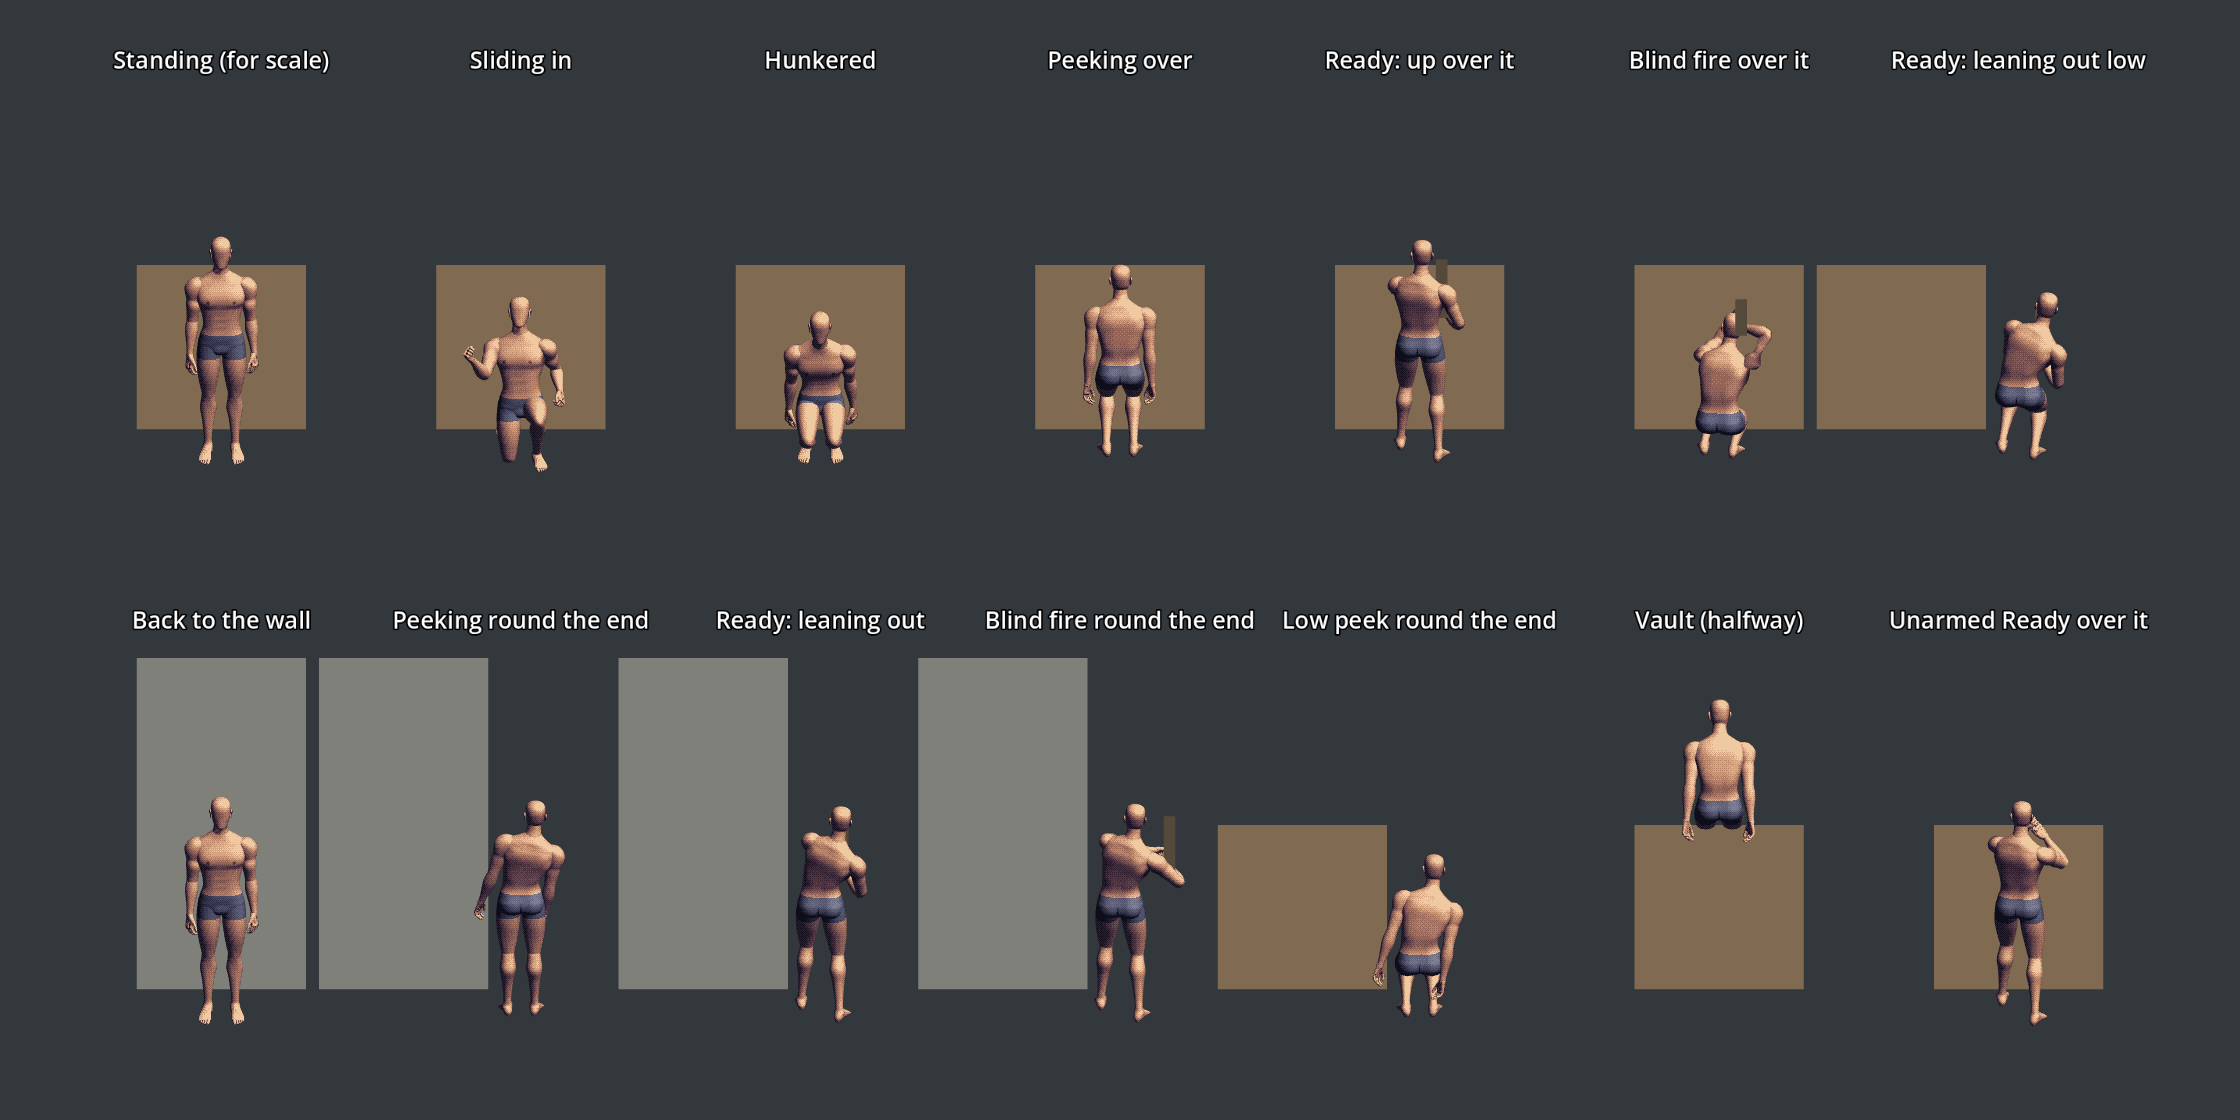
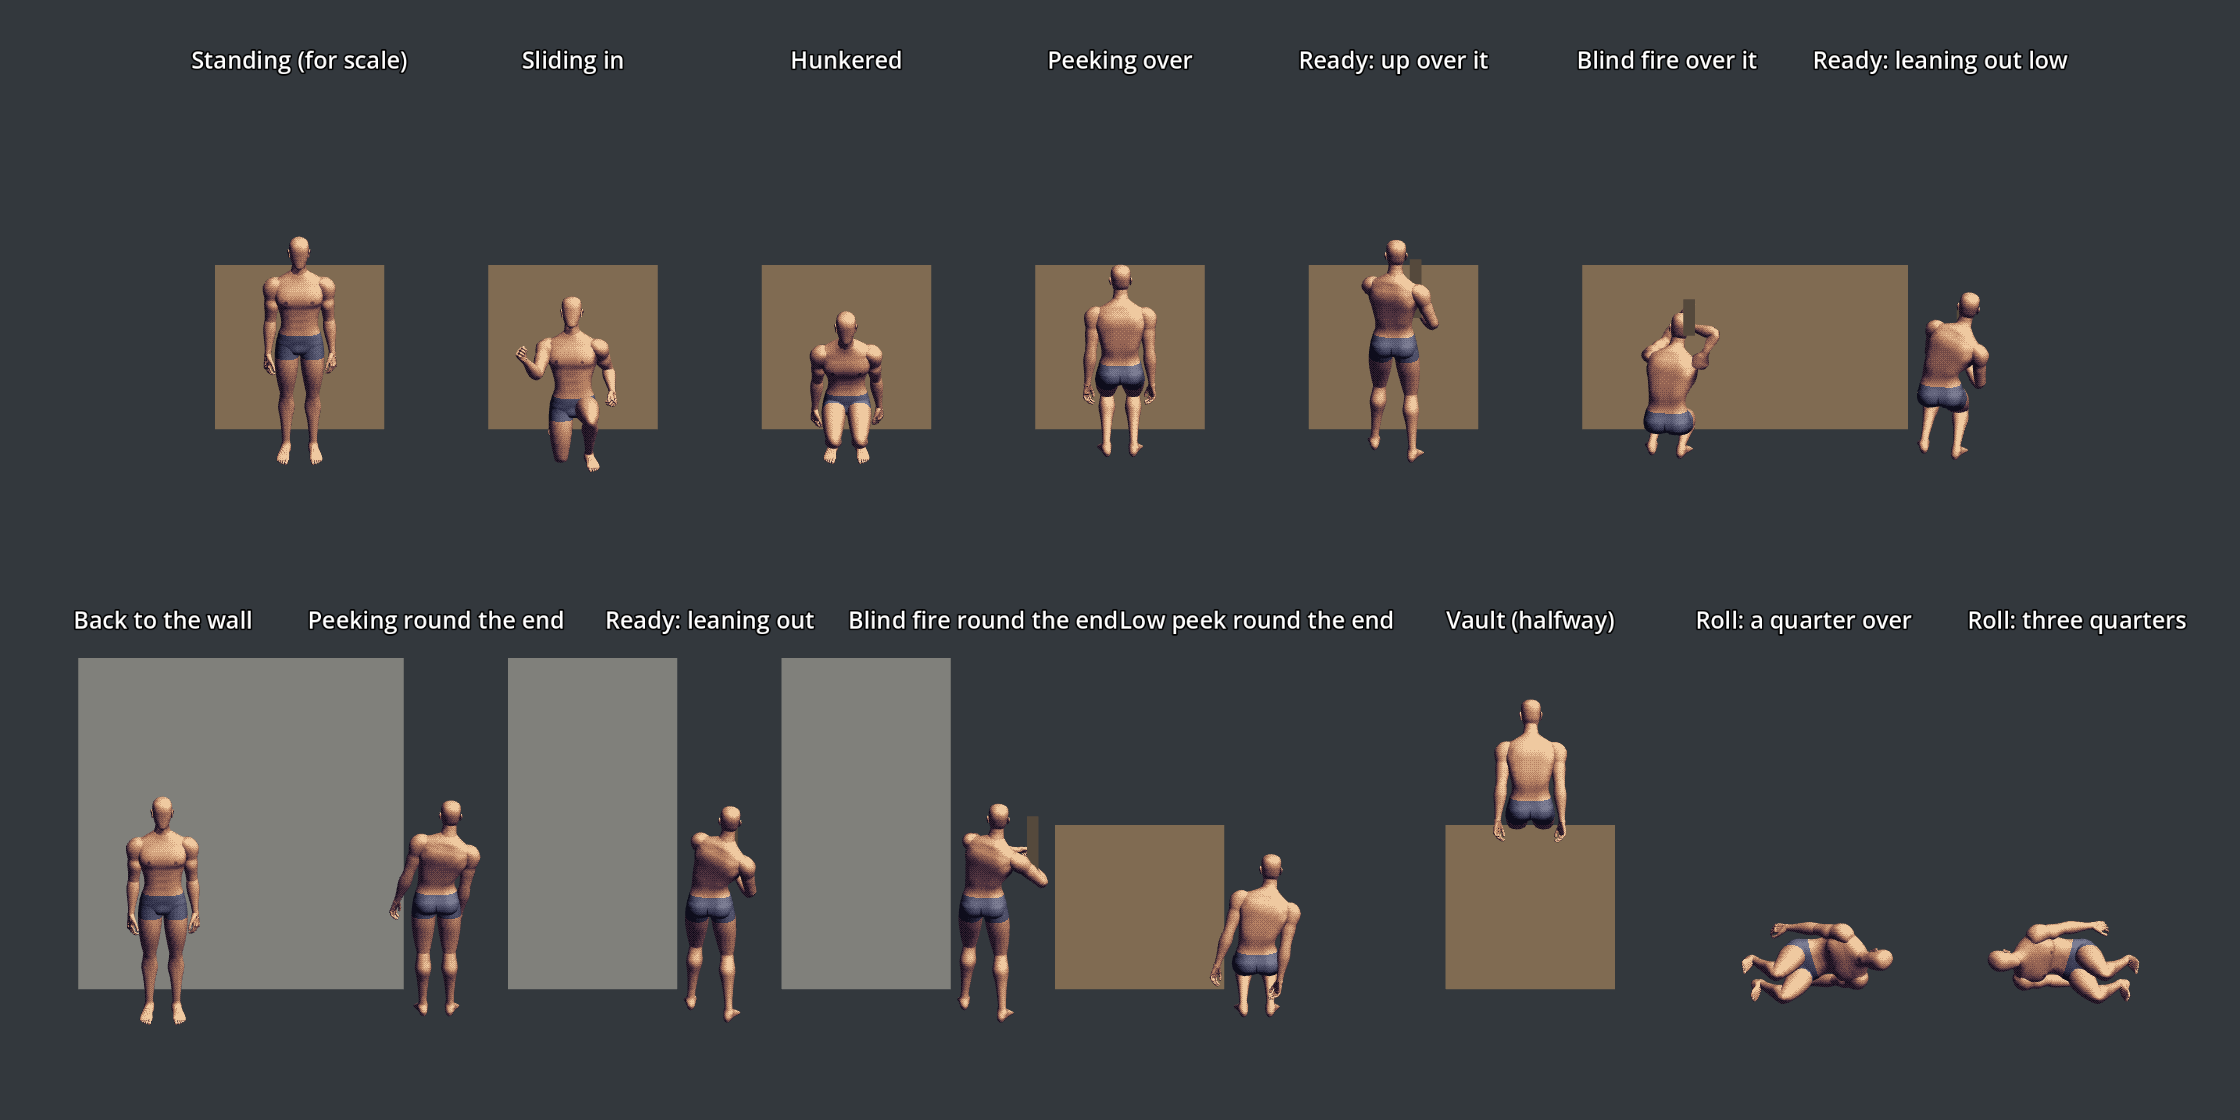
Roll: double-tap Cover out of cover
Two quick taps roll you the way you are moving (or facing, standing
still) without changing your facing. Nothing can grab you mid-roll. A
single tap still slides into cover at once.

Claude-Session: https://claude.ai/code/session_016fBGAUWu2qzw7nE8geQqSy

diff --git a/CLAUDE.md b/CLAUDE.md
@@ -218,6 +218,11 @@ document; keep it in step when the rules change).
   stick) or leave it. Hold = go to the cover spot the crosshair marks (cyan ring; read before lock-on shifts the
   crosshair); the crosshair recentres on arrival. Pushing firmly away leaves; a dash or a grab also takes you out.
   Cover + pushing into low cover vaults it (window sills too).
+- Roll (owner, 20 Nov 2026): two quick Cover taps (within 0.28 s) when not in cover roll you 3.2 m the way you are
+  moving, or the way you face if standing still; your facing doesn't change. 0.55 s, 15 stamina. Nothing can grab
+  you during it; you can't attack during it. Not while held, winded, or standing on bodies. The first tap still
+  acts at once (it may start a slide to cover; the second tap drops that and rolls). `player.gd` Roll exports;
+  the tumble is in `player_body.gd` (two moments of it are on the cover pose sheet).
 - Three states (`cover_mode`):
   - hunker: hidden. Shots that cross the cover are stopped. You see only `cover_hunker_sight` 4 m all round (the
     fog closes in, enemies beyond fade).
